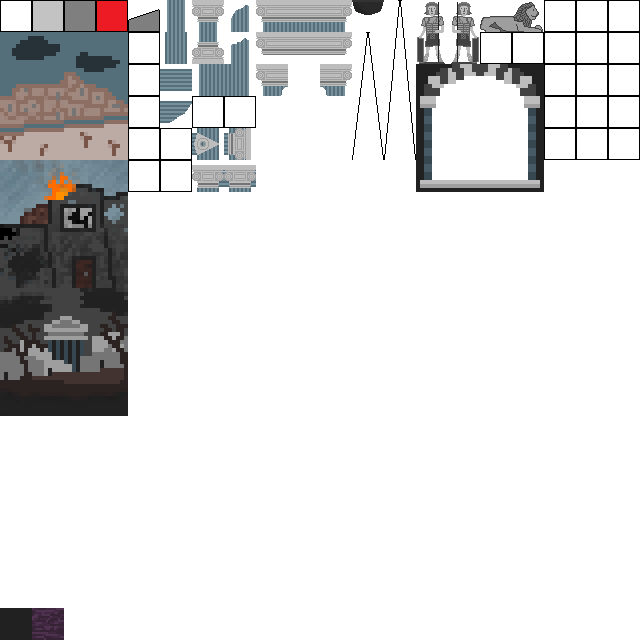
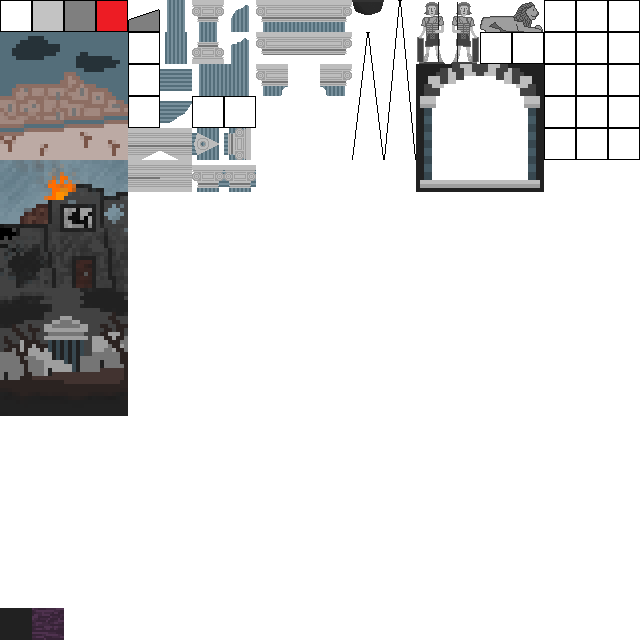
Added Hallway Level. Fixed pincers monster.

Changed region(s): [[0.1875, 0.1875, 0.3125, 0.3125]]

diff --git a/build/js/resources.js b/build/js/resources.js
@@ -120,16 +120,6 @@ game.resources = [
         "src": "data/img/pincers/pinchers_small.png"
     },
     {
-        "name": "pinchers_small (1)",
-        "type": "image",
-        "src": "data/img/pinchers_small (1).png"
-    },
-    {
-        "name": "pinchers_small",
-        "type": "image",
-        "src": "data/img/pinchers_small.png"
-    },
-    {
         "name": "pinchers",
         "type": "image",
         "src": "data/img/pinchers.png"
@@ -178,6 +168,11 @@ game.resources = [
         "name": "ugly_color",
         "type": "image",
         "src": "data/img/ugly_color.png"
+    },
+    {
+        "name": "hallway",
+        "type": "tmx",
+        "src": "data/map/hallway.tmx"
     },
     {
         "name": "level1",

diff --git a/js/entities/entities.js b/js/entities/entities.js
@@ -25,13 +25,13 @@ game.PlayerEntity = me.Entity.extend({
         
         this.renderable.addAnimation("idle",  [0, 1, 2, 3, 4], 200);
         
-        if (me.levelDirector.getCurrentLevel().name == "tobecontinued") {
+        if (me.levelDirector.getCurrentLevel().name == "hallway") {
             console.log('Playing MUSIC');
             me.audio.stop("Theme")
             me.audio.play("FinalFight", true);
         }
         
-        var platformer_levels = ['level2'];
+        var platformer_levels = ['level2', 'hallway'];
         
         if (platformer_levels.includes(me.levelDirector.getCurrentLevel().name)) {
             this.body.gravity = {x: 0.0, y: 0.90};
